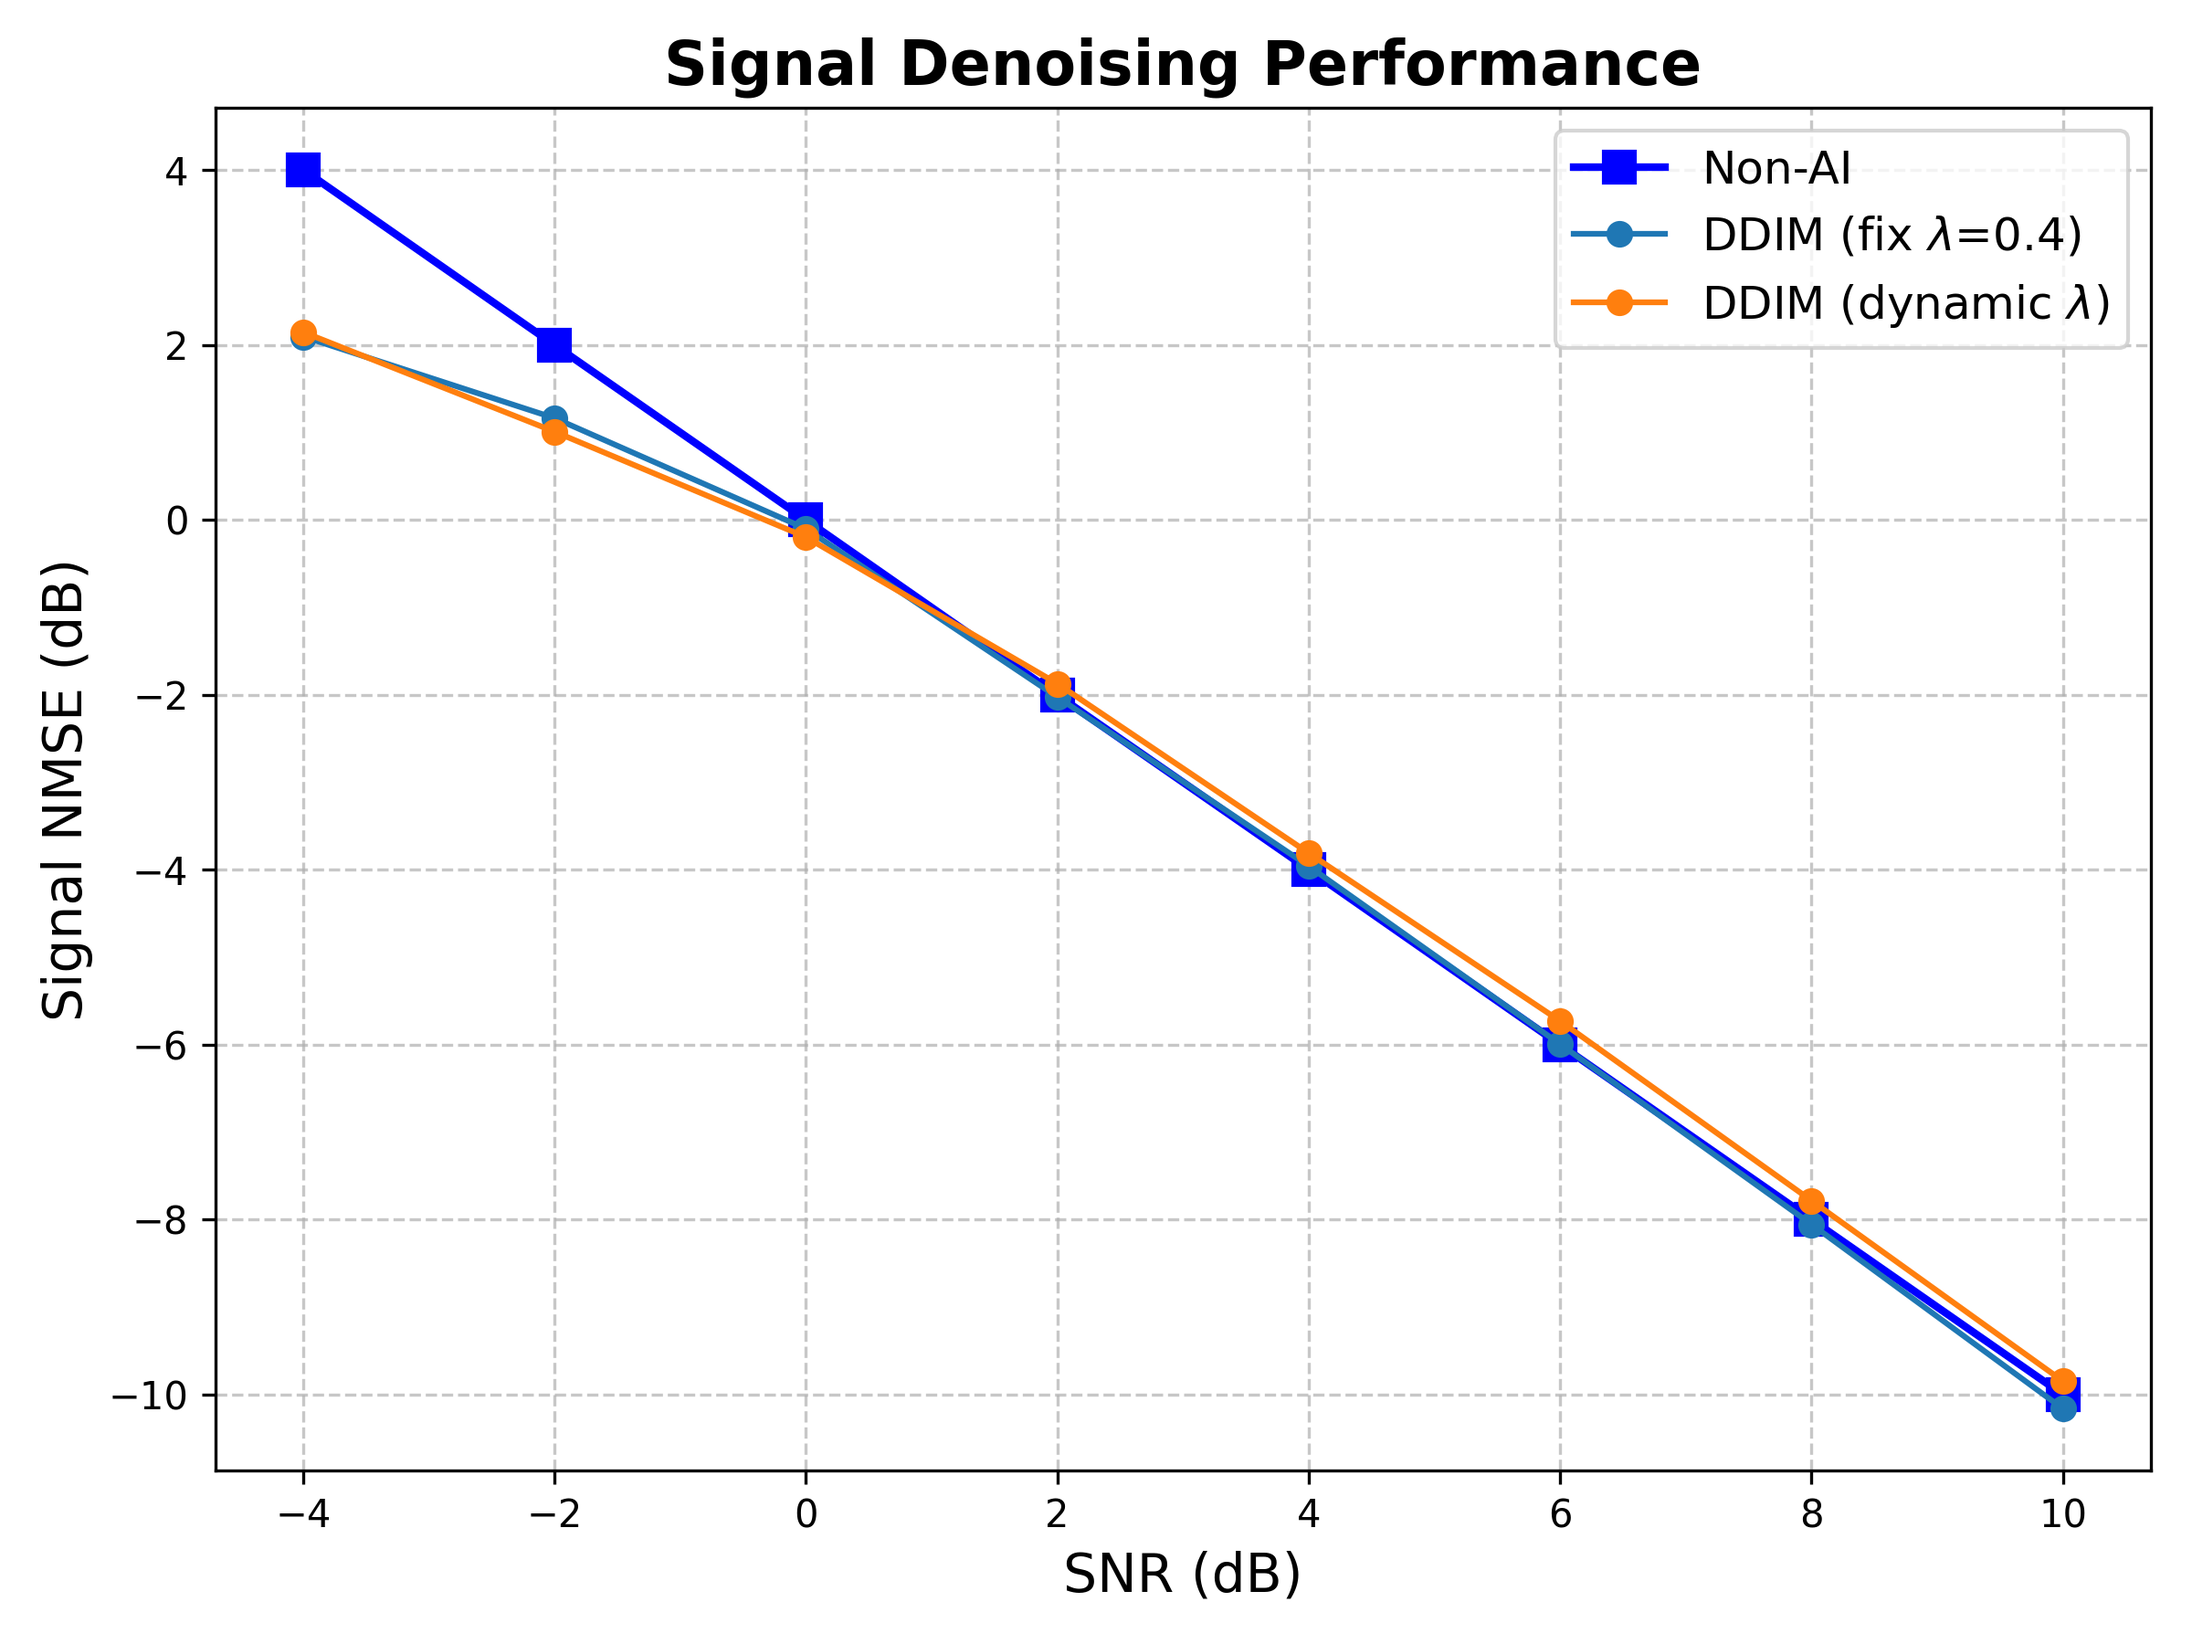
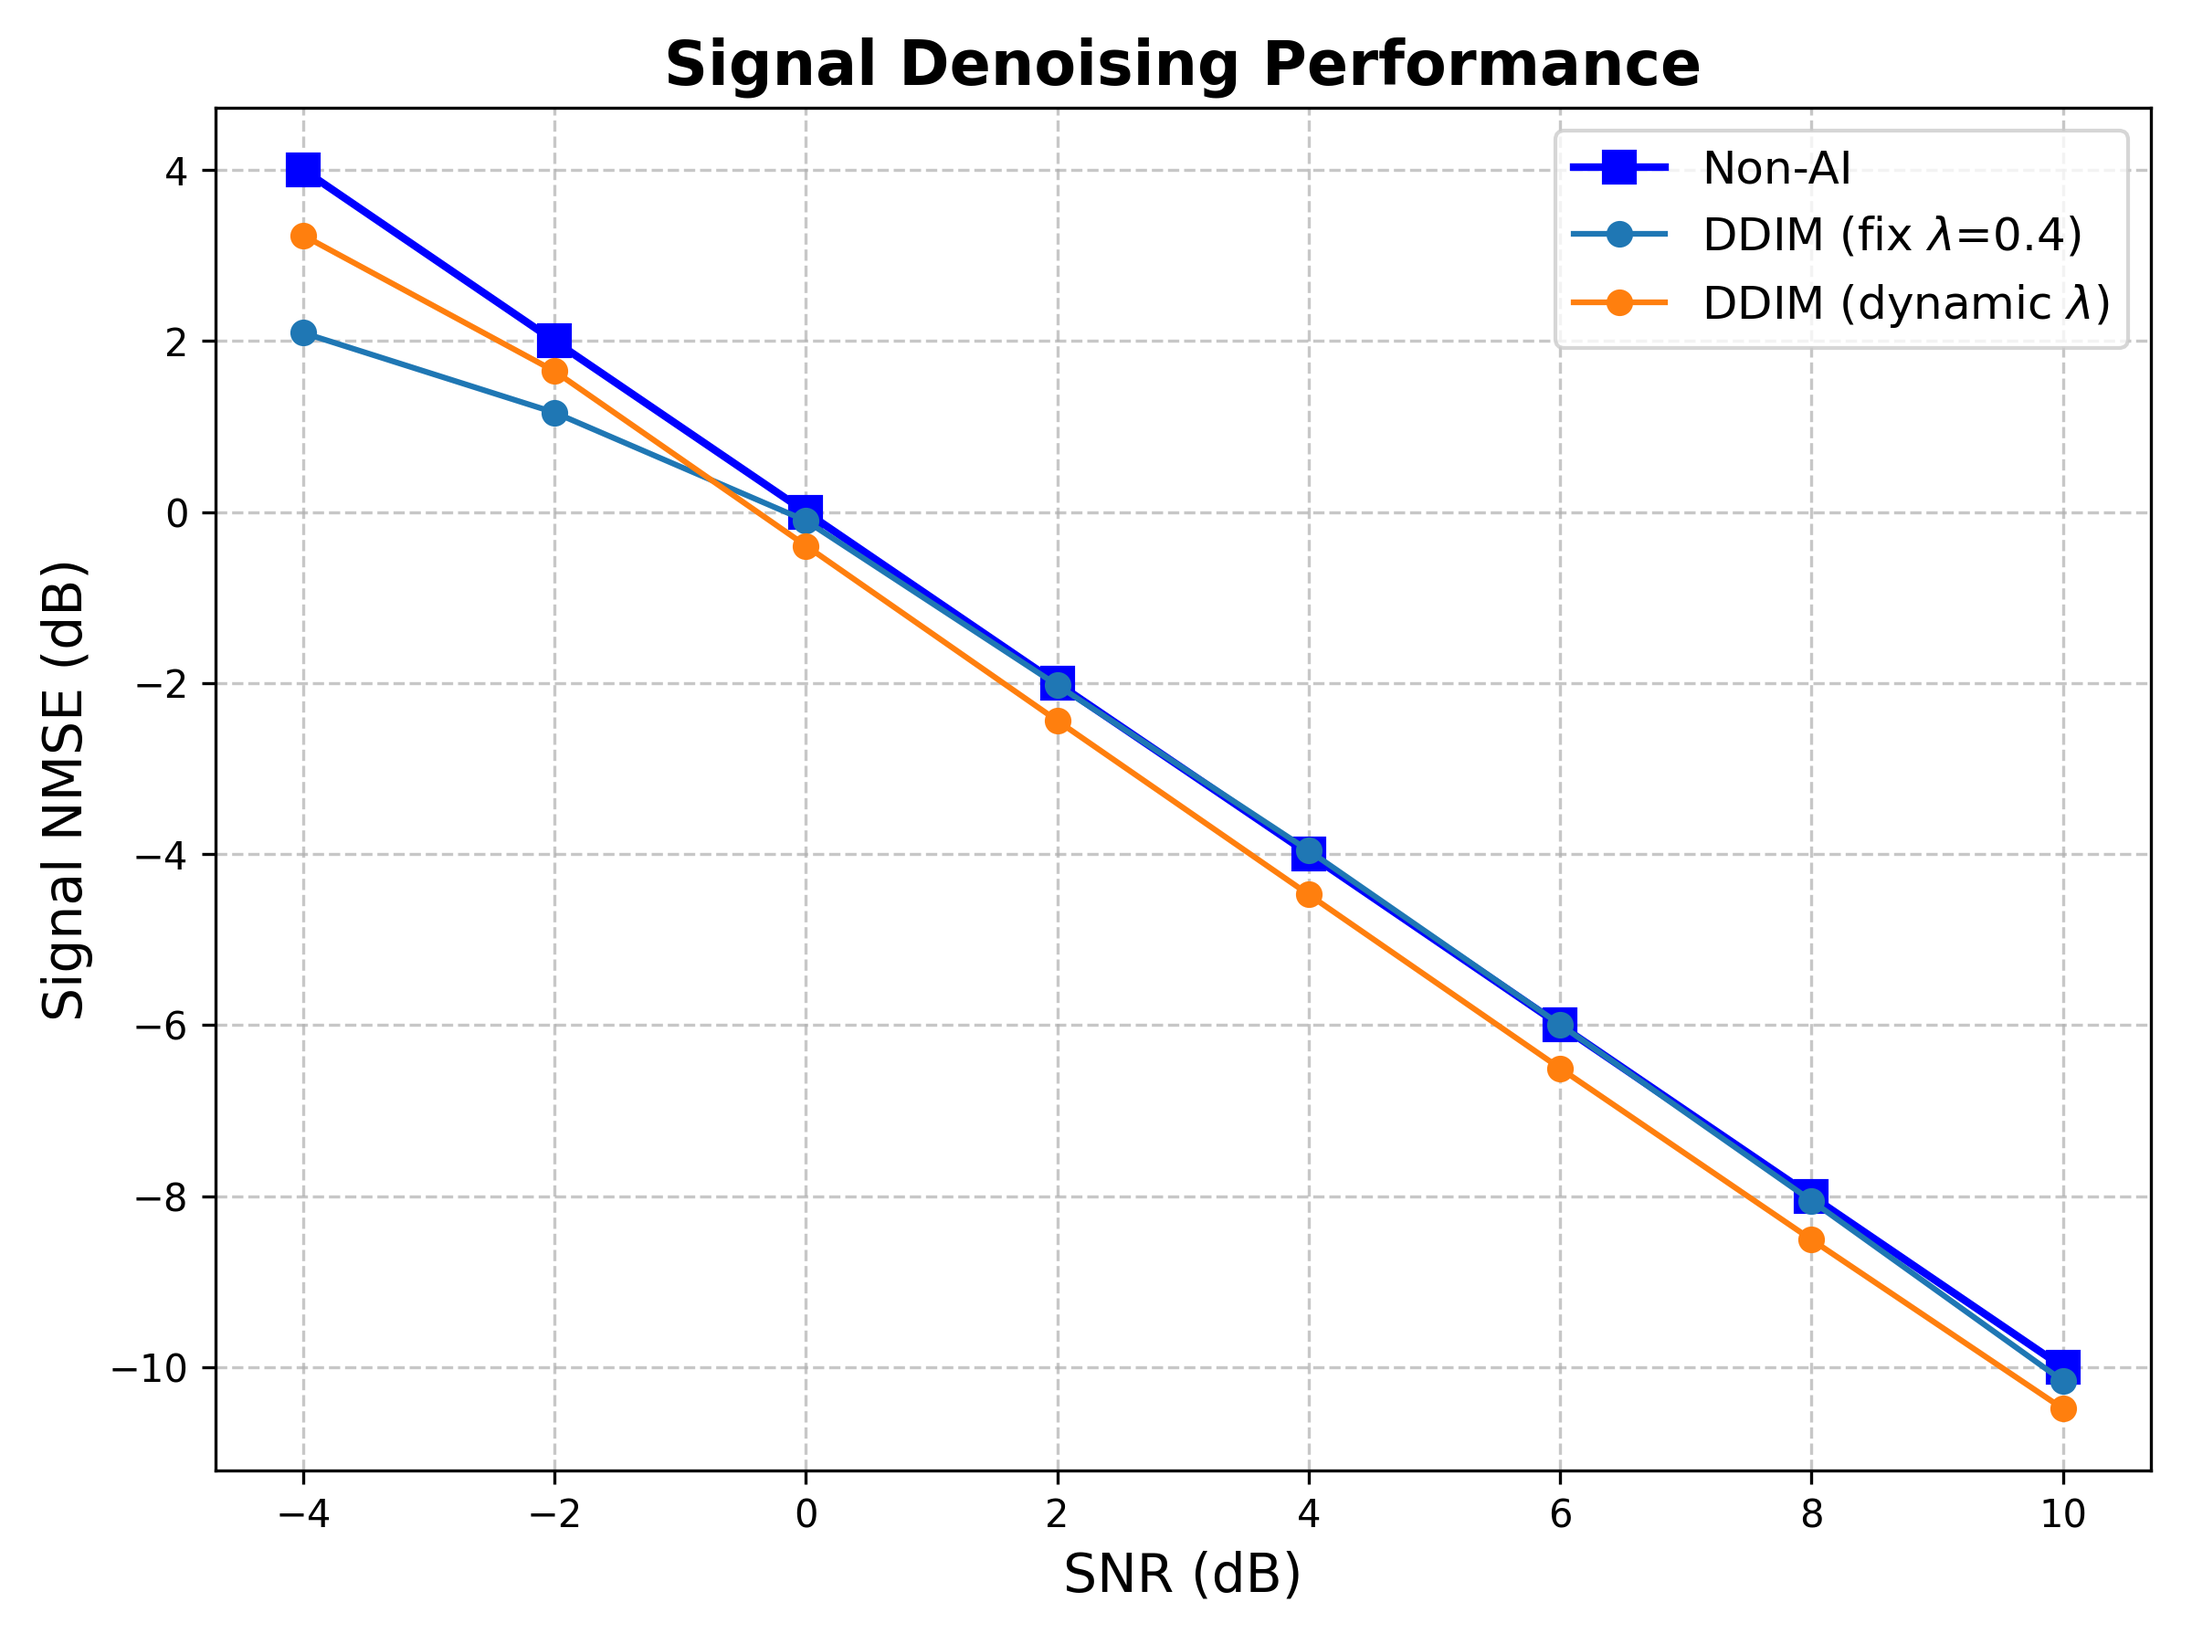
feat(dy_lamb): implement normalization and tune `lambda=0.4`
- First, added data normalization using `lambda=1, max(sigma_y2, 1)`.
- Further tuned `lambda` to `0.4`.
- Result: achieving better x0 and MCM NMSE across all SNR, but DOA the
same.
- Note: also tried `max(sigma_y2, 2)` and `lambda=0.8`, but still.

diff --git a/sim2/DDIM/diffusion/ddim_sampler_parallel.py b/sim2/DDIM/diffusion/ddim_sampler_parallel.py
@@ -5,6 +5,7 @@ from diffusion.physics_guidance import complex_to_real, complex_stack_from_real,
 # Vectorized DDIM deterministic guided sampler operating on all L snapshots in parallel
 
 def ddim_epsnet_guided_sampler_dynamic(y_obs_complex, eps_net, snr,
+                                     data_mean, data_std,
                                      num_steps=200, T=50.0,
                                      beta_min=1e-4, beta_max=0.02,
                                      guidance_lambda=0.8, device=None,
@@ -18,6 +19,8 @@ def ddim_epsnet_guided_sampler_dynamic(y_obs_complex, eps_net, snr,
         B = y_real.shape[0]
         t_seq = torch.linspace(T, 0.0, num_steps, device=device)
         x_t = torch.randn_like(y_real, device=device)
+        data_mean = data_mean.view(1, -1)
+        data_std = data_std.view(1, -1)
         sigma_y2 = (10 ** (-snr / 20.0)) ** 2 / 2.0  # placeholder, user can pass SNR if needed
 
         for k in range(num_steps - 1):
@@ -35,17 +38,22 @@ def ddim_epsnet_guided_sampler_dynamic(y_obs_complex, eps_net, snr,
             sqrt_1m_a_next = torch.sqrt(1.0 - a_bar_next)
 
             # denoise to x0_hat for entire batch
-            x0_hat = (x_t - sqrt_1m_a_cur * eps_pred) / (sqrt_a_cur + 1e-12)
+            x0_hat_norm = (x_t - sqrt_1m_a_cur * eps_pred) / (sqrt_a_cur + 1e-12)
+            x0_hat_phys = x0_hat_norm * data_std + data_mean
 
             # guidance in x0 domain using observed y
-            grad_x0 = (y_real - x0_hat) / max(sigma_y2 + 1e-8, 0.15)
-            x0_hat_guided = x0_hat + guidance_lambda *sqrt_1m_a_cur* grad_x0
+            grad_x0 = (y_real - x0_hat_phys) / max(sigma_y2, 1)
+            #  Convert Gradient back to Normalized Space (Chain Rule)
+            # dx_phys/dx_norm = data_std
+            grad_norm = grad_x0 * data_std
+            # Apply Guidance in Normalized Space
+            x0_hat_guided_norm = x0_hat_norm + guidance_lambda * grad_norm
 
             # compute eps_guided
-            eps_guided = (x_t - sqrt_a_cur * x0_hat_guided) / (sqrt_1m_a_cur + 1e-12)
+            eps_guided = (x_t - sqrt_a_cur * x0_hat_guided_norm) / (sqrt_1m_a_cur + 1e-12)
 
             # DDIM deterministic update for whole batch
-            x_t = sqrt_a_next * x0_hat_guided + sqrt_1m_a_next * eps_guided
+            x_t = sqrt_a_next * x0_hat_guided_norm + sqrt_1m_a_next * eps_guided
 
             # optional physics projection on batch (operates in real stacked domain)
             if apply_physics_projection and (k % 10 == 0):
@@ -59,12 +67,17 @@ def ddim_epsnet_guided_sampler_dynamic(y_obs_complex, eps_net, snr,
         sqrt_a_last = torch.sqrt(a_bar_last)
         sqrt_1m_a_last = torch.sqrt(1.0 - a_bar_last)
         x0_hat_final = (x_t - sqrt_1m_a_last * eps_final) / (sqrt_a_last + 1e-12)
+        x0_hat_phys = x0_hat_final * data_std + data_mean
         # final guidance
-        grad_x0 = (y_real - x0_hat_final) / max(sigma_y2 + 1e-8, 0.15)
-        x0_hat_final_guided = x0_hat_final + guidance_lambda *sqrt_1m_a_last* grad_x0
+        grad_x0 = (y_real - x0_hat_phys) / max(sigma_y2 + 1e-8, 1)
+        grad_norm = grad_x0 * data_std
+        x0_hat_final_guided = x0_hat_final + guidance_lambda * grad_norm
+
+        # 5. Final Output: Convert back to Physical Space
+        x0_final_phys = x0_hat_final_guided * data_std + data_mean
 
         # unstack back to (N, L)
-        x0_hat_complex = complex_stack_from_real(x0_hat_final_guided)
+        x0_hat_complex = complex_stack_from_real(x0_final_phys)
         x0_est = x0_hat_complex.T  # (N, L)
         return x0_est
     

diff --git a/sim2/DDIM/main_dynamic_lambda.py b/sim2/DDIM/main_dynamic_lambda.py
@@ -25,7 +25,7 @@ BETA_MIN=1e-4
 BETA_MAX=0.02
 T_DIFFUSION=1000.0
 NUM_SAMPLING_STEPS=50
-GUIDANCE_LAMBDA=1
+GUIDANCE_LAMBDA=0.4
 
 # testing settings
 MODEL_WEIGHT_FILE_NAME = f"DDIM_ep{NUM_EPOCHS}_lr{LR:.0e}_t{int(T_DIFFUSION)}_bmax{BETA_MAX:.0e}.pth"
@@ -76,7 +76,7 @@ elif MODE == 'test':
                                                 device, script_dir, use_toeplitz=True)
 
     print(f'[Info] Loading model...')
-    eps_net = load_trained_model(script_dir, device, N, MODEL_TYPE, MODEL_WEIGHT_FILE_NAME)
+    eps_net, data_mean, data_std = load_trained_model(script_dir, device, N, MODEL_TYPE, MODEL_WEIGHT_FILE_NAME)
 
     theta_nmse_results = []
     M_nmse_results = []
@@ -101,6 +101,7 @@ elif MODE == 'test':
 
         # --- 1. denoising using DDIM guided sampler (N, S * L) -> (N, S * L) ---
         x0_batch_est = ddim_epsnet_guided_sampler_dynamic(Ys_batch, eps_net, snr,
+                                data_mean, data_std,
                                 NUM_SAMPLING_STEPS, T_DIFFUSION, BETA_MIN, BETA_MAX, GUIDANCE_LAMBDA,
                                 device=device, apply_physics_projection=True)
 
